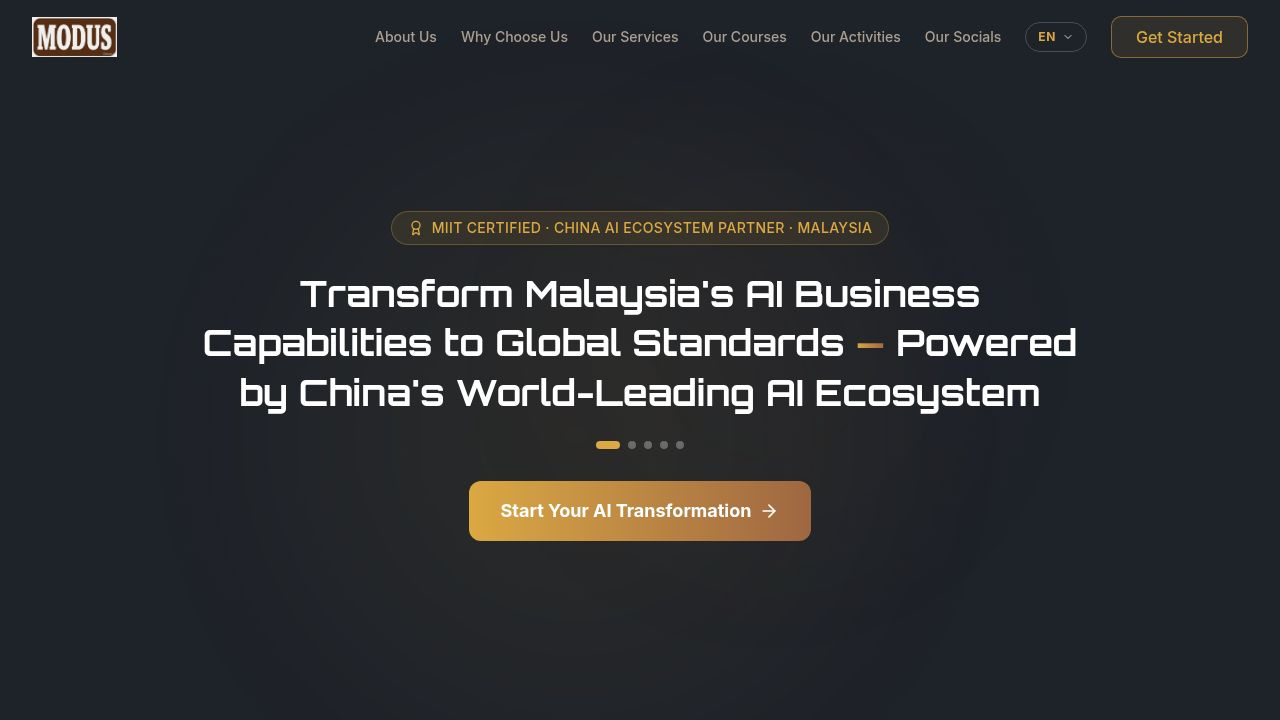
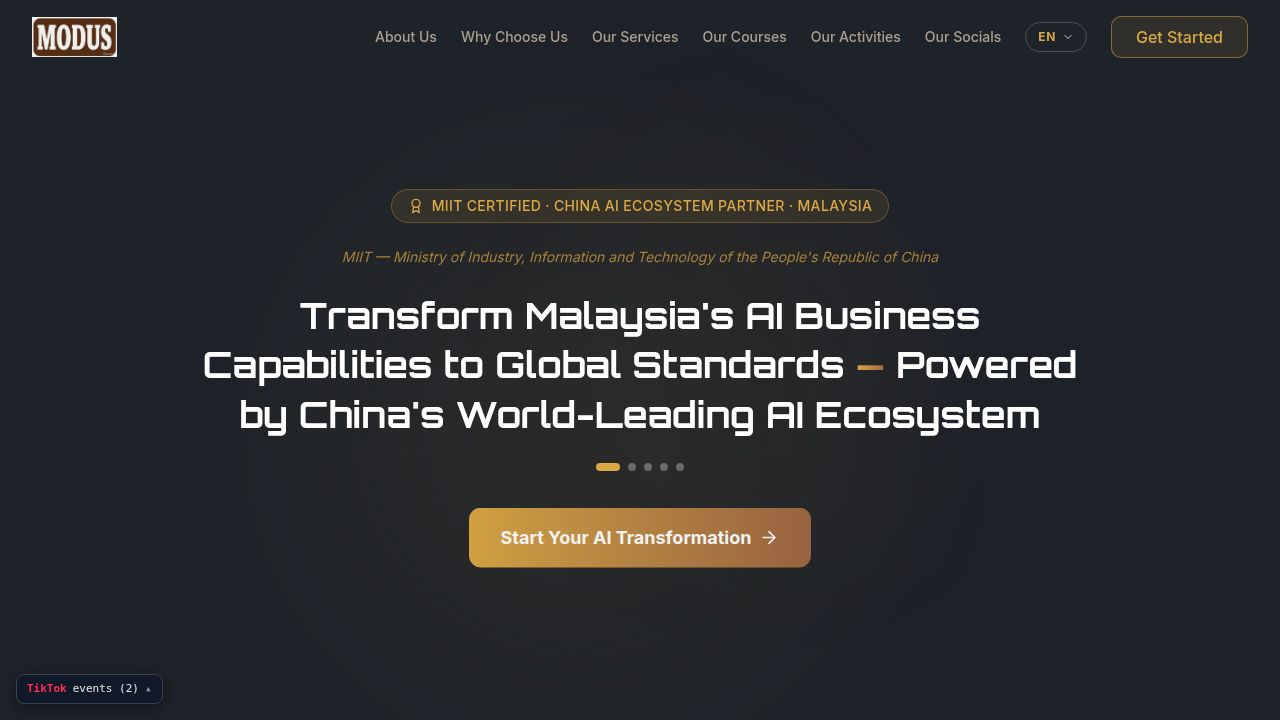
Improve reliability of TikTok event tracking system
Harden the TikTok events API endpoint to include retry logic for transient errors (429, 408, 5xx) and implement per-attempt timeouts for increased robustness.

Replit-Commit-Author: Agent
Replit-Commit-Session-Id: a2228504-6bd8-481e-8679-bb3c3d116ad2
Replit-Commit-Checkpoint-Type: full_checkpoint
Replit-Commit-Event-Id: 9a90b271-d715-40b3-812a-73dc01e80548
Replit-Commit-Screenshot-Url: https://storage.googleapis.com/screenshot-production-us-central1/6e69340e-50b2-4e50-b16f-20813a3c9943/a2228504-6bd8-481e-8679-bb3c3d116ad2/FMYA4ZZ
Replit-Helium-Checkpoint-Created: true

Changed region(s): [[0.1562, 0.275, 0.8438, 0.7944], [0.0, 0.9472, 0.125, 0.9778]]

diff --git a/artifacts/api-server/src/routes/tiktok.ts b/artifacts/api-server/src/routes/tiktok.ts
@@ -6,6 +6,12 @@ const router = Router();
 
 const TIKTOK_API_URL = "https://business-api.tiktok.com/open_api/v1.3/event/track/";
 const MAX_RETRIES = 3;
+const ATTEMPT_TIMEOUT_MS = 5000;
+
+// Transient HTTP statuses worth retrying (rate limit / request timeout / server errors).
+function isRetryableStatus(status: number): boolean {
+  return status === 429 || status === 408 || status >= 500;
+}
 
 function sha256(value: string): string {
   return createHash("sha256").update(value.trim().toLowerCase()).digest("hex");
@@ -25,6 +31,8 @@ async function sendWithRetry(
   let lastError: unknown = null;
 
   for (let attempt = 1; attempt <= MAX_RETRIES; attempt++) {
+    const controller = new AbortController();
+    const timeout = setTimeout(() => controller.abort(), ATTEMPT_TIMEOUT_MS);
     try {
       const res = await fetch(TIKTOK_API_URL, {
         method: "POST",
@@ -33,6 +41,7 @@ async function sendWithRetry(
           "Access-Token": accessToken,
         },
         body: JSON.stringify(payload),
+        signal: controller.signal,
       });
       const json = (await res.json().catch(() => ({}))) as { code?: number; message?: string };
 
@@ -47,17 +56,21 @@ async function sendWithRetry(
         "TikTok Events API non-success response",
       );
 
-      // Client errors (bad payload / auth) won't be fixed by retrying.
-      if (res.status >= 400 && res.status < 500) {
+      // Permanent client errors (bad payload / auth) won't be fixed by retrying.
+      if (!isRetryableStatus(res.status)) {
         return { ok: false, response: json };
       }
     } catch (err) {
       lastError = err;
       log.warn({ attempt, err: String(err) }, "TikTok Events API request failed");
+    } finally {
+      clearTimeout(timeout);
     }
 
     if (attempt < MAX_RETRIES) {
-      await new Promise((r) => setTimeout(r, 250 * attempt));
+      // Exponential backoff with jitter.
+      const backoff = 250 * 2 ** (attempt - 1) + Math.floor(Math.random() * 100);
+      await new Promise((r) => setTimeout(r, backoff));
     }
   }
 

diff --git a/.agents/memory/tiktok-tracking.md b/.agents/memory/tiktok-tracking.md
@@ -1,0 +1,12 @@
+---
+name: TikTok tracking (modus-ai)
+description: Non-obvious constraints for the TikTok Pixel + Events API integration on the MODUS AI site.
+---
+
+# TikTok tracking integration
+
+- Pixel ID lives in `index.html` + `TIKTOK_PIXEL_ID` shared env var; the Events API access token is `TIKTOK_ACCESS_TOKEN` (Replit Secret, server-only — never send to browser).
+- Browser `Lead` (pixel `ttq.track`) and server `Lead` (POST `/api/tiktok-events` → Events API) MUST share the same `event_id` so TikTok deduplicates them into one conversion.
+  **Why:** server-side gives reliable hashed email/IP/UA; browser gives client signals. Without a shared event_id they double-count.
+- TikTok Pixel `content_type` only accepts e-commerce values ("product", "product_group", "destination", "hotel", "flight", "vehicle"). For a lead-gen site, OMIT `content_type` entirely (use only `content_name`) or the console floods with "Invalid content type" warnings. The "Missing content_id" warning is VSA-only and safe to ignore.
+- Server email must be SHA256-hashed (lowercased+trimmed) before sending to the Events API.

diff --git a/.agents/memory/repo-conventions.md b/.agents/memory/repo-conventions.md
@@ -1,0 +1,10 @@
+---
+name: Repo conventions
+description: Non-obvious workspace conventions that contradict or extend replit.md.
+---
+
+# Repo conventions
+
+- `replit.md` claims a root `pnpm run typecheck` exists; it does NOT. Root `package.json` only has `build`. Typecheck per-package: `pnpm --filter @workspace/<pkg> exec tsc -p tsconfig.json --noEmit`, and build libs with `pnpm exec tsc --build lib/<lib>`.
+- `artifacts/modus-ai` home.tsx/details.tsx have pre-existing framer-motion `ease: string` Variant TS errors (TS2322). These are unrelated noise — ignore when checking your own changes.
+- modus-ai frontend calls the API server via root-relative `/api/...` (not BASE_URL-prefixed); the shared proxy routes it. Keep consistent with the existing contact form.

diff --git a/docs/TIKTOK_IMPLEMENTATION.md b/docs/TIKTOK_IMPLEMENTATION.md
@@ -90,8 +90,11 @@ curl -s -X POST localhost:80/api/tiktok-events \
 2. Trigger a `Lead` (submit the form, or run the curl above with a real email).
 3. The server posts to `https://business-api.tiktok.com/open_api/v1.3/event/track/`.
    A success response has HTTP 200 with body `{"code":0,...}`; the route maps
-   that to `{"success":true}`. Failures are retried up to 3 times and logged via
-   `req.log.warn` (never thrown back to the user).
+   that to `{"success":true}`. Each attempt has a 5s timeout (`AbortController`).
+   Transient failures (HTTP 429 / 408 / 5xx and network errors) are retried up to
+   3 times with exponential backoff + jitter; permanent client errors (400/401/403/404)
+   fail fast. All failures are logged via `req.log.warn` and never thrown back to
+   the user — the contact form always completes.
 
 ## 5. TikTok Events Manager verification checklist
 

diff --git a/.agents/memory/MEMORY.md b/.agents/memory/MEMORY.md
@@ -1,0 +1,2 @@
+- [TikTok tracking (modus-ai)](tiktok-tracking.md) — Pixel+Events API: shared event_id dedup, token server-only, omit content_type for lead-gen sites.
+- [Repo typecheck](repo-conventions.md) — root has NO `pnpm run typecheck` script (despite replit.md); typecheck per-package with `pnpm --filter <pkg> exec tsc -p tsconfig.json --noEmit`.